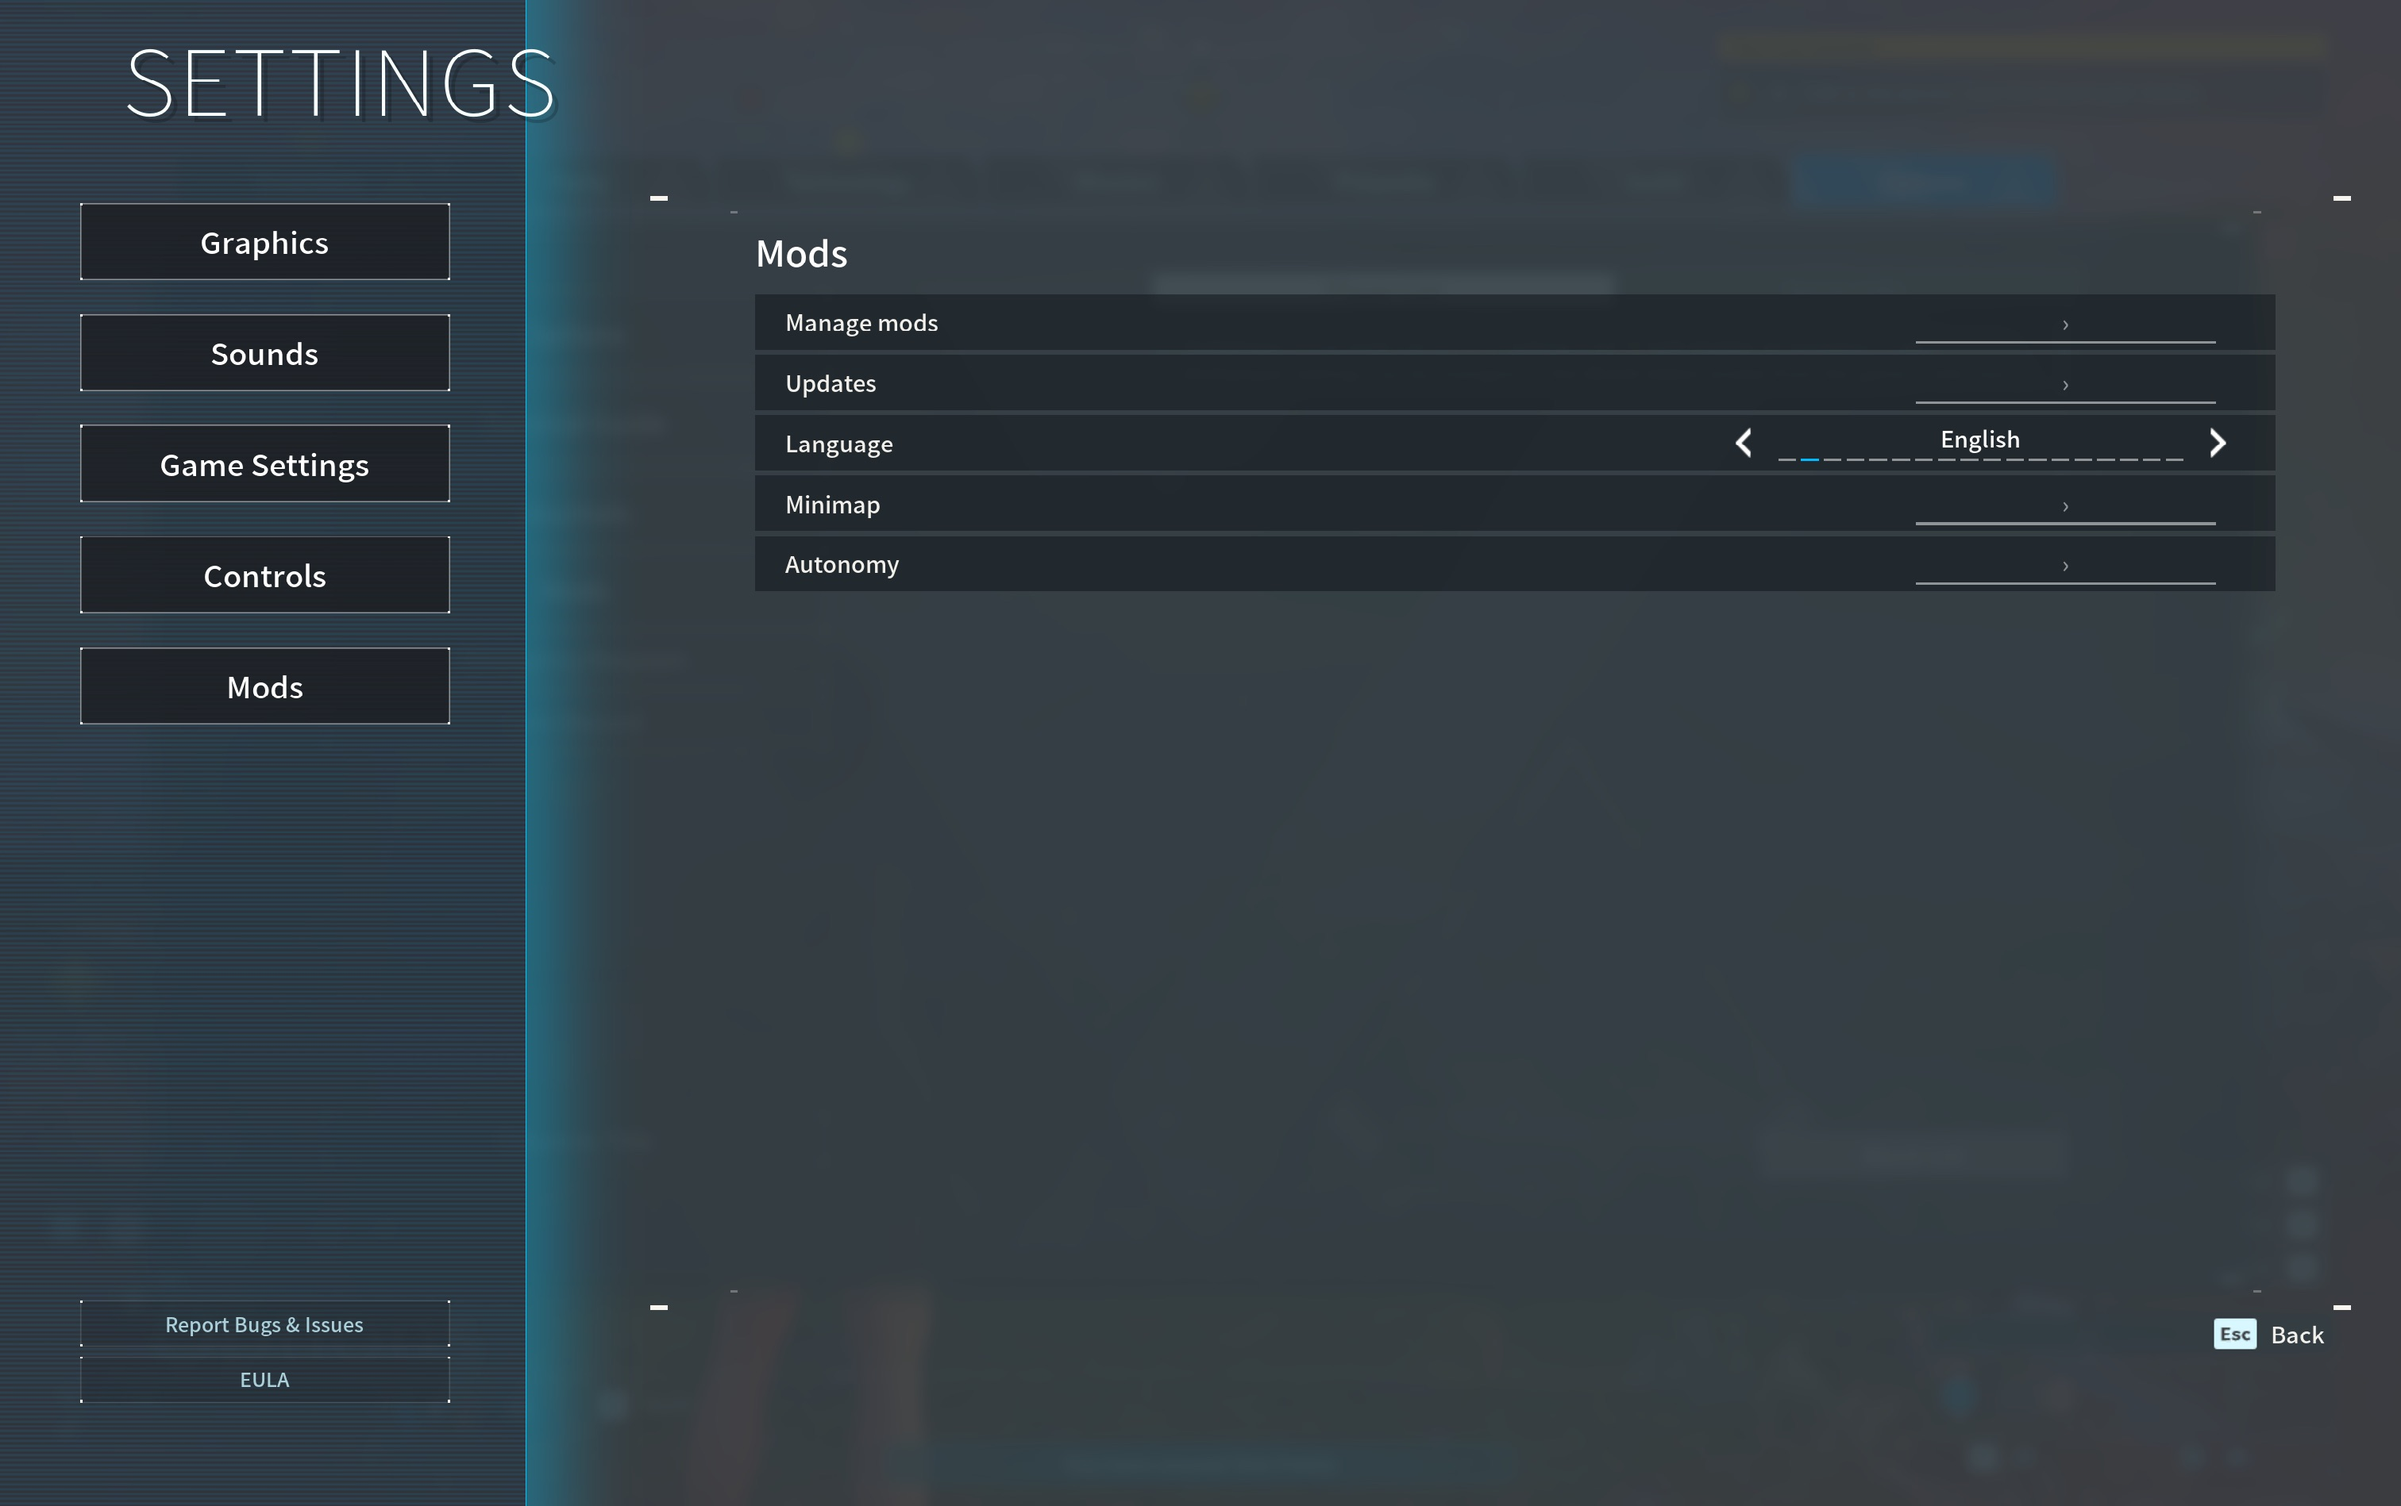
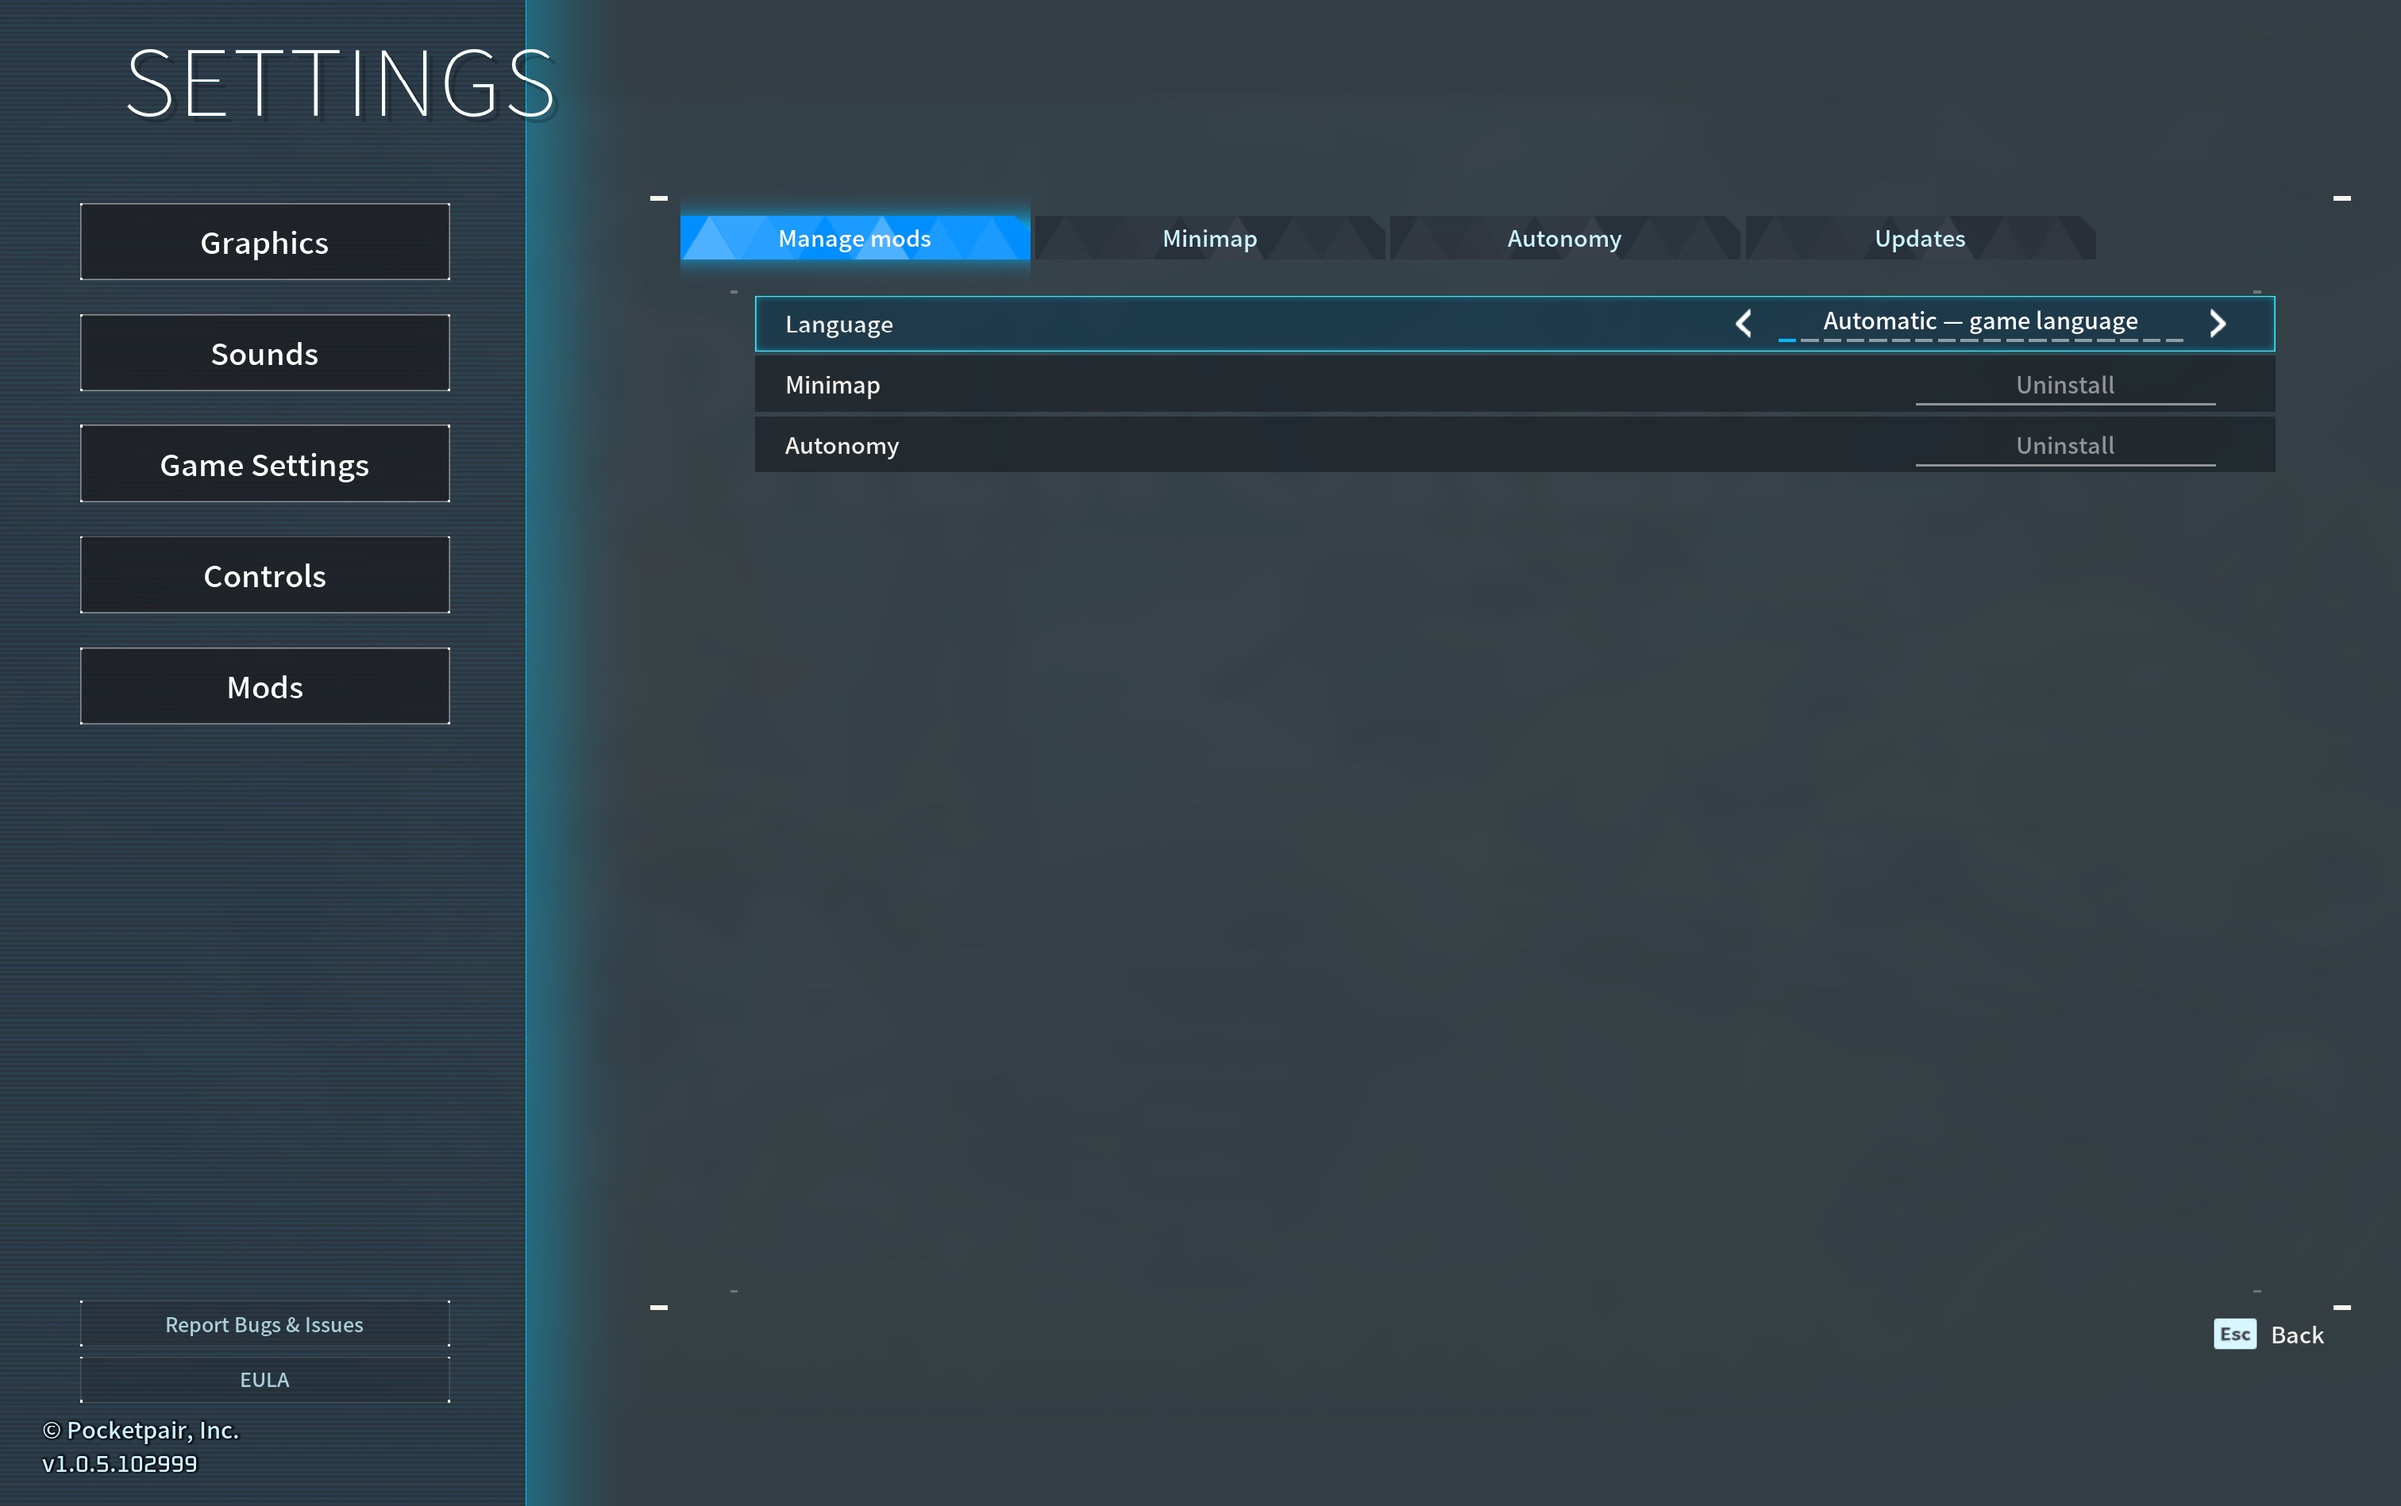
Fix native input contrast and add top-level mod tabs

Changed region(s): [[0.2798, 0.1243, 0.9636, 0.4041], [0.0, 0.9326, 0.0933, 0.9947]]

diff --git a/README.md b/README.md
@@ -8,7 +8,7 @@ Install one app, then manage your mods inside the game's own settings.
 
 ![The native settings screen with Mods, Manage mods, Updates, Language, Minimap and Autonomy](docs/screenshots/mods-menu.jpg)
 
-*Options → Mods, inside the game. No separate management window.*
+*Options → Mods, with native tabs across the top. No separate management window.*
 
 ## Before you start
 
@@ -52,12 +52,12 @@ security is not part of installation.
 
 | I want to… | Open Options → Mods, then… |
 | --- | --- |
-| Change the map | Select **Minimap** for shape, camera follow, range, transparency and icons. |
-| Hide a mod temporarily | Select the mod and turn **Enabled** off. |
-| Install or remove a bundled mod | Open **Manage mods** and select the mod. A gray entry is not installed. |
+| Change the map | Select the **Minimap** tab for shape, camera follow, range, transparency and icons. |
+| Hide a mod temporarily | Select the mod's tab and turn **Enabled** off. |
+| Install or remove a bundled mod | Open the **Manage mods** tab and select the mod. A gray tab also installs the missing mod when selected. |
 | Try automatic capture/gathering | Install **Autonomy** and read its [first-session guide](https://github.com/lansbe/palworld-mod-autonomy#try-it-in-a-test-world). |
-| Change the language | Select **Language**. Automatic follows the game; a manual choice is remembered. |
-| Check or install an app update | Open **Updates**. Automatic updates are on by default and can be turned off. |
+| Change the language | Open **Manage mods → Language**. Automatic follows the game; a manual choice is remembered. |
+| Check or install an app update | Select the **Updates** tab. Automatic updates are on by default and can be turned off. |
 
 Installing, removing, enabling and configuring bundled mods applies without
 restarting the game. App/runtime updates take effect after a normal game exit;

diff --git a/docs/validation.md b/docs/validation.md
@@ -3,6 +3,29 @@
 Verified locally on Apple silicon with the supported App Store executable.
 This record describes observed results, not guarantees for every game session.
 
+## Native tabs and input contrast (0.4.4)
+
+- Reproduced inherited foreground colors in the editable text style. Text, focused
+  text and selection now use explicit contrasting colors; solid background brushes
+  avoid references to editor-only Slate image files. Inspected the caret and selected
+  text in the game, and replaced a selected capture goal through macOS keyboard input.
+- Four native tabs replace the in-list navigation: Manage mods, Minimap, Autonomy
+  and Updates. Pending text survives tab changes. Native Graphics, Controls and
+  Sounds pages recover their original tab visibility after leaving Mods.
+- Native integration checks cover all 18 Autonomy controls, validation failures,
+  tab selection, detached old panels and settings restoration. Contrast regression
+  checks require at least 4.5:1 for entered text against each input background.
+- Inspected French, English, German, Russian and Japanese layouts. All 17 locale
+  catalogues pass validation. The production app passed gray-tab installation,
+  removal, text persistence, a local-world menu visit and normal return to title
+  and exit, with no runtime diagnostic errors. The production probe stays disabled.
+- The disk image, signed update and disposable app replacement passed verification.
+
+The keyboard test above succeeded after raising the game window. This does not
+establish reliable remote mouse routing or gamepad text entry. Q/E remains reserved
+for the game's own settings tabs; Mods tabs use their native buttons. No multiplayer
+or autonomous capture/gathering behavior changed or was validated in this UI fix.
+
 ## Native Autonomy settings (0.4.3)
 
 - A cold Options session reproduced the missing world-settings text template in

diff --git a/CONTRIBUTING.md b/CONTRIBUTING.md
@@ -27,6 +27,7 @@ python3 scripts/verify.py
 python3 -m unittest discover -s tests -p 'test_*.py'
 lua tests/extensions.lua
 lua tests/settings.lua
+lua tests/text_field.lua
 lua tests/localization.lua
 lua tests/tree.lua
 lua tests/updates.lua
@@ -66,6 +67,9 @@ For Autonomy, open Options > Mods > Autonomy with Running off, then run
 `tests/native_autonomy_settings.lua`. It checks the rendered controls and restores
 the saved configuration even when an assertion fails. Use a temporary world;
 never enable arbitrary evaluation in a distributed launcher.
+Run `tests/native_mod_navigation.lua` from the Autonomy tab to check page changes,
+pending text commits and panel cleanup. Also inspect selection and the blinking
+caret in the actual game; style assertions do not replace a visual check.
 
 Bug reports should include the app/mod version, macOS version, game build, minimal
 steps and expected/actual behavior. Review diagnostic excerpts and screenshots for

diff --git a/docs/screenshots/README.md b/docs/screenshots/README.md
@@ -1,9 +1,10 @@
 # Screenshot notes
 
 These are real, unretouched captures from the Mac App Store edition of Palworld,
-using Palworld Mods 0.4.2, Minimap 0.2.1 and Autonomy 0.2.1 on game build 102999.
+using Palworld Mods, Minimap 0.2.1 and Autonomy 0.2.1 on game build 102999.
+The native menu capture uses Mods 0.4.4; the gameplay capture uses Mods 0.4.2.
 The game and mod interface were temporarily set to English for documentation.
-The capture session took place on October 13, 2026, in a local test world.
+The captures were taken on October 13, 2026, at the title screen and in a local test world.
 
 Images show the native Mods settings, Minimap during gameplay, or the relevant
 mod settings. Autonomy was stopped throughout the session. A screenshot shows

diff --git a/docs/distribution.md b/docs/distribution.md
@@ -18,7 +18,7 @@ Xcode Command Line Tools and Python 3.12 or newer, then run:
 python3 -m venv .venv
 .venv/bin/python -m pip install --require-hashes -r scripts/requirements-packaging.txt
 .venv/bin/python scripts/package_dmg.py
-.venv/bin/python scripts/verify_package.py dist/palworld-mods-0.4.2-macos-arm64.dmg
+.venv/bin/python scripts/verify_package.py dist/palworld-mods-0.4.4-macos-arm64.dmg
 ```
 
 `VERSION` controls the app metadata and image filename. `scripts/assets.swift`
